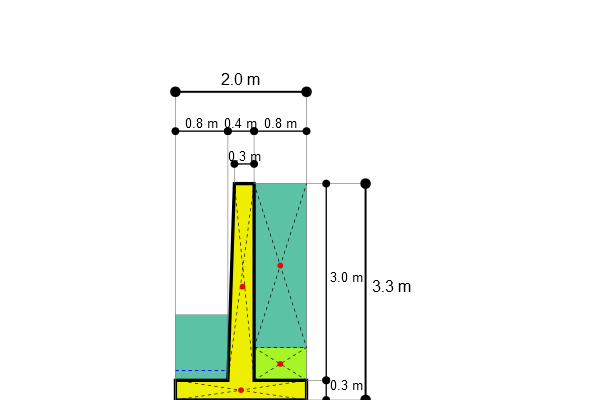
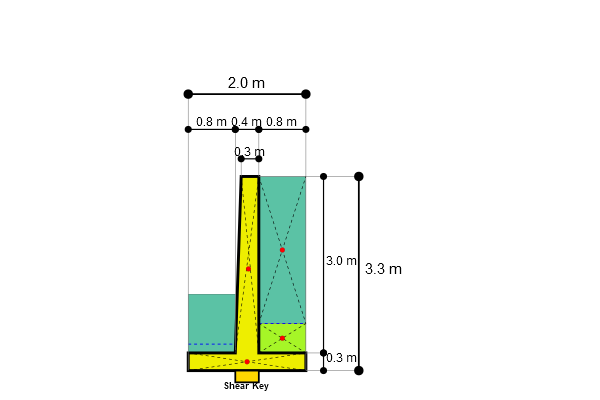
feat: Add optional shear key feature and fix analysis/plotting bugs

Changed region(s): [[0.27, 0.3, 0.69, 1.0], [0.27, 0.18, 0.54, 0.27]]

diff --git a/App.py b/App.py
@@ -155,6 +155,13 @@ with tab_geom:
     top_wall = st.number_input('Top wall thickness (m)', value=0.3, step=0.01, format="%.3f")
     bot_wall = st.number_input('Bottom wall thickness (m)', value=0.4, step=0.01, format="%.3f")
     h_ftg = st.number_input('Footing thickness (m)', value=0.3, step=0.01, format="%.3f")
+    # Shear key optional parameters
+    include_shear_key = st.checkbox('Include Shear Key', value=False)
+    if include_shear_key:
+        st.subheader('Shear Key Parameters')
+        shear_key_distance = st.number_input('Distance from toe edge (m)', value=0.1, step=0.01, format="%.3f")
+        shear_key_width = st.number_input('Shear key width (m)', value=0.5, step=0.01, format="%.3f")
+        shear_key_thickness = st.number_input('Shear key thickness (m)', value=0.2, step=0.01, format="%.3f")
 
 with tab_soil:
     # Soil parameters
@@ -391,6 +398,7 @@ for idx, x in enumerate(xs_unique):
 # back nodes follow the tapered profile, front nodes at x = toe+bot_wall
 # IDs 17..32 (back1,front1, back2,front2, ...)
 stem_pairs = []
+shear_node_ids = []  # will hold shear key node ids if enabled
 for i in range(1, 9):
     z = h_ftg + Hw * (i / 8.0)
     back_x = toe + taper * (i / 8.0)
@@ -462,8 +470,71 @@ for j in range(1, 9):
         elem_id += 1
     stem_elements_by_layer.append([e1, e2])
 
+# Shear key mesh (Tri31 3x3 grid) if enabled
+if include_shear_key:
+    # Shear key protrudes BELOW the footing base (y=0 downward)
+    # x range: from shear_key_distance to shear_key_distance + shear_key_width
+    base_node_id = num_foot_nodes * 2 + len(stem_pairs) * 2
+    shear_node_ids = []
+    shear_key_top_nids = []     # top row (y=0) for equalDOF connection
+    shear_key_bottom_nids = []  # bottom row (y=-shear_key_thickness) for springs
+    shear_key_left_nids = []    # left column for active pressure
+    shear_key_right_nids = []   # right column for passive pressure
+    nx_sk, ny_sk = 3, 3
+    x_start_sk = shear_key_distance
+    x_end_sk = shear_key_distance + shear_key_width
+    y_top_sk = 0.0              # footing base level
+    y_bottom_sk = -shear_key_thickness
+    sk_xs = []
+    for i_sk in range(nx_sk):
+        x = x_start_sk + (x_end_sk - x_start_sk) * i_sk / (nx_sk - 1)
+        sk_xs.append(x)
+        for j_sk in range(ny_sk):
+            y = y_bottom_sk + (y_top_sk - y_bottom_sk) * j_sk / (ny_sk - 1)
+            nid = base_node_id + len(shear_node_ids) + 1
+            ops.node(nid, float(x), float(y))
+            shear_node_ids.append(nid)
+            if j_sk == ny_sk - 1:  # top row
+                shear_key_top_nids.append(nid)
+            if j_sk == 0:  # bottom row
+                shear_key_bottom_nids.append(nid)
+            if i_sk == 0:  # left column (back face — active side)
+                shear_key_left_nids.append(nid)
+            if i_sk == nx_sk - 1:  # right column (front face — passive side)
+                shear_key_right_nids.append(nid)
+    sk_ys_unique = [y_bottom_sk + (y_top_sk - y_bottom_sk) * j_sk / (ny_sk - 1) for j_sk in range(ny_sk)]
+
+    # Create Tri31 elements for the shear key (2 triangles per quad)
+    shear_key_elem_ids = []
+    for i_sk in range(nx_sk - 1):
+        for j_sk in range(ny_sk - 1):
+            n1 = shear_node_ids[i_sk * ny_sk + j_sk]
+            n2 = shear_node_ids[(i_sk + 1) * ny_sk + j_sk]
+            n3 = shear_node_ids[i_sk * ny_sk + (j_sk + 1)]
+            n4 = shear_node_ids[(i_sk + 1) * ny_sk + (j_sk + 1)]
+            ops.element('Tri31', elem_id, n1, n4, n3, 1.0, 'PlaneStrain', 1)
+            shear_key_elem_ids.append(elem_id)
+            elem_id += 1
+            ops.element('Tri31', elem_id, n1, n2, n4, 1.0, 'PlaneStrain', 1)
+            shear_key_elem_ids.append(elem_id)
+            elem_id += 1
+
+    # Connect top row of shear key to nearest footing bottom nodes via equalDOF
+    for sk_top_nid in shear_key_top_nids:
+        sk_x = ops.nodeCoord(sk_top_nid, 1)
+        # Find closest bottom footing node
+        best_dist = float('inf')
+        best_nid = bottom_node_ids[0]
+        for bnid in bottom_node_ids:
+            bx = ops.nodeCoord(bnid, 1)
+            dist = abs(bx - sk_x)
+            if dist < best_dist:
+                best_dist = dist
+                best_nid = bnid
+        ops.equalDOF(best_nid, sk_top_nid, 1, 2)
+
 # total nodes and elements
-total_nodes = num_foot_nodes * 2 + len(stem_pairs) * 2
+total_nodes = num_foot_nodes * 2 + len(stem_pairs) * 2 + (len(shear_node_ids) if include_shear_key else 0)
 total_elements = elem_id - 1
 
 # heel_nodes kept for reference (top-of-footing sampling points)
@@ -755,6 +826,35 @@ ops.load(bottom_node_ids[0], float(F_passive_bot), 0.0)
 # Total passive force (integrated)
 P_passive = 0.5 * (sigma_p_top + sigma_p_bot) * h_ftg * t
 
+# Shear key active and passive earth pressure loads
+P_passive_shear_key = 0.0
+if include_shear_key:
+    # The shear key extends from y=0 to y=-shear_key_thickness below footing base
+    # Depth below ground surface at footing base = h_soil_toe + h_ftg
+    depth_at_ftg_base = h_soil_toe + h_ftg
+    # Left face (back side, closer to heel) receives ACTIVE pressure pushing left (negative x)
+    # Right face (front side, closer to toe) receives PASSIVE pressure pushing right (positive x)
+    sk_ny = len(shear_key_left_nids)
+    sk_h_trib = shear_key_thickness / max(1, sk_ny - 1)
+    for j_sk, (left_nid, right_nid) in enumerate(zip(shear_key_left_nids, shear_key_right_nids)):
+        y_nid = ops.nodeCoord(left_nid, 2)  # y coordinate (negative)
+        depth_below_surface = depth_at_ftg_base + abs(y_nid)
+        # Tributary height
+        if j_sk == 0 or j_sk == sk_ny - 1:
+            h_t = sk_h_trib / 2.0
+        else:
+            h_t = sk_h_trib
+        # Active pressure on left face (pushing left = negative x)
+        sigma_a = Ka * gamma_soil_dry * depth_below_surface
+        F_active = -sigma_a * h_t * t
+        ops.load(left_nid, float(F_active), 0.0)
+        # Passive pressure on right face (pushing right = positive x) with FS
+        sigma_p = (Kp * gamma_soil_dry * depth_below_surface) / FS_passive
+        F_passive_sk = sigma_p * h_t * t
+        ops.load(right_nid, float(F_passive_sk), 0.0)
+        P_passive_shear_key += F_passive_sk
+    P_passive += P_passive_shear_key
+
 # Support information - Winkler Soil Spring Model
 # Compute subgrade reaction modulus using Vesic's formula: ks = Es / (B * (1 - nu^2))
 ks_subgrade = Es_soil / (ftg * (1.0 - nu_soil**2))
@@ -788,9 +888,30 @@ for idx, nid in enumerate(bottom_node_ids):
 leftmost_bottom = bottom_node_ids[0]
 ops.fix(leftmost_bottom, 1, 0)
 
+# Shear key bottom node springs (anchor + vertical spring)
+if include_shear_key:
+    sk_spring_mat_base = 300  # material tag offset for shear key springs
+    sk_spring_elem_base = 2000  # element tag offset for shear key springs
+    sk_anchor_base = 400  # node tag offset for shear key anchor nodes
+    for idx_sk, sk_nid in enumerate(shear_key_bottom_nids):
+        anchor_sk_nid = sk_anchor_base + idx_sk
+        x_c = ops.nodeCoord(sk_nid, 1)
+        y_c = ops.nodeCoord(sk_nid, 2)
+        ops.node(anchor_sk_nid, float(x_c), float(y_c))
+        ops.fix(anchor_sk_nid, 1, 1)
+        # Tributary width for spring
+        L_trib_sk = shear_key_width / max(1, len(shear_key_bottom_nids) - 1)
+        if idx_sk == 0 or idx_sk == len(shear_key_bottom_nids) - 1:
+            L_trib_sk = L_trib_sk / 2.0
+        k_spring_sk = ks_subgrade * L_trib_sk * t
+        mat_sk = sk_spring_mat_base + idx_sk
+        ops.uniaxialMaterial('Elastic', mat_sk, float(k_spring_sk))
+        elem_sk = sk_spring_elem_base + idx_sk
+        ops.element('zeroLength', elem_sk, anchor_sk_nid, sk_nid, '-mat', mat_sk, '-dir', 2)
+
 ops.system('BandSPD')
 ops.numberer('RCM')
-ops.constraints('Plain')
+ops.constraints('Transformation')
 ops.integrator('LoadControl', 1.0)
 
 # Analysis type
@@ -923,6 +1044,12 @@ W_stem_tri = gamma_c * stem_tri_area * t
 cg_x_stem_tri = toe + (2.0 / 3.0) * taper if taper > 0 else float(toe)
 
 W_conc = W_base + W_stem_rect + W_stem_tri
+# Add shear key weight if enabled
+W_shear_key = 0.0
+if include_shear_key:
+    shear_key_area = shear_key_width * shear_key_thickness
+    W_shear_key = gamma_c * shear_key_area * t
+    W_conc += W_shear_key
 wall_area = stem_rect_area + stem_tri_area
 footing_area = base_area
 
@@ -983,13 +1110,13 @@ except Exception:
 
 try:
     phi_rad = np.radians(phi)
-    # R_slide is the base friction resistance (W * tan(phi))
-    R_slide = max(0.0, W_down_global) * np.tan(phi_rad)
+    # R_slide is the base friction resistance (W * tan(phi)) + shear key passive resistance
+    R_slide = max(0.0, W_down_global) * np.tan(phi_rad) + P_passive_shear_key
     # F_drive is the net driving lateral force (Active + Surcharge + Hydrostatic - Passive)
     # Since passive resistance is applied in OpenSees as a positive horizontal load,
     # total_lateral_resultant (-sum(Fx)) naturally subtracts it.
     F_drive = max(0.0, total_lateral_resultant)
-    FS_slide_global = R_slide / F_drive if F_drive > 0 else float('inf')
+    FS_slide_global = (R_slide + P_passive) / F_drive if F_drive > 0 else float('inf')
 except Exception:
     R_slide = 0.0
     FS_slide_global = None
@@ -1257,17 +1384,19 @@ try:
         anchor=(stem_cover, stem_beam_height - stem_cover),
     )
     
-    # Side bars
-    geom_stem = add_bar_rectangular_array(
-        geometry=geom_stem,
-        area=stem_sidebar_area,
-        material=material_steel,
-        n_x=2,
-        x_s=stem_beam_width - 2 * stem_cover,
-        n_y=3,
-        y_s=stem_spacing_y,
-        anchor=(stem_cover, stem_cover + 150),
-    )
+    # Side bars (evenly spaced between top and bottom main bars, avoiding out-of-bounds/overlap)
+    n_y_stem = int((stem_beam_height - 2 * stem_cover - 1e-3) / stem_spacing_y)
+    if n_y_stem > 0:
+        geom_stem = add_bar_rectangular_array(
+            geometry=geom_stem,
+            area=stem_sidebar_area,
+            material=material_steel,
+            n_x=2,
+            x_s=stem_beam_width - 2 * stem_cover,
+            n_y=n_y_stem,
+            y_s=stem_spacing_y,
+            anchor=(stem_cover, stem_cover + stem_spacing_y),
+        )
     
     conc_sec_stem = ConcreteSection(geom_stem)
     stem_capacity_sag = conc_sec_stem.ultimate_bending_capacity(theta=0)
@@ -1317,17 +1446,19 @@ try:
         anchor=(ftg_cover, ftg_beam_height - ftg_cover),
     )
     
-    # Side bars
-    geom_ftg = add_bar_rectangular_array(
-        geometry=geom_ftg,
-        area=ftg_sidebar_area,
-        material=material_steel,
-        n_x=2,
-        x_s=ftg_beam_width - 2 * ftg_cover,
-        n_y=n_y_bars_ftg,
-        y_s=ftg_spacing_y,
-        anchor=(ftg_cover, ftg_cover),
-    )
+    # Side bars (evenly spaced between top and bottom main bars, avoiding out-of-bounds/overlap)
+    n_y_ftg = int((ftg_beam_height - 2 * ftg_cover - 1e-3) / ftg_spacing_y)
+    if n_y_ftg > 0:
+        geom_ftg = add_bar_rectangular_array(
+            geometry=geom_ftg,
+            area=ftg_sidebar_area,
+            material=material_steel,
+            n_x=2,
+            x_s=ftg_beam_width - 2 * ftg_cover,
+            n_y=n_y_ftg,
+            y_s=ftg_spacing_y,
+            anchor=(ftg_cover, ftg_cover + ftg_spacing_y),
+        )
     
     conc_sec_ftg = ConcreteSection(geom_ftg)
     ftg_capacity_sag = conc_sec_ftg.ultimate_bending_capacity(theta=0)
@@ -1648,8 +1779,19 @@ if enable_pile:
         d_piles = ftg - 2.0 * pile_offset
         P_toe = Rv_force * (ftg - pile_offset - x_R_loc) / d_piles
         P_heel = Rv_force * (x_R_loc - pile_offset) / d_piles
-        H_toe = H_force / 2.0
-        H_heel = H_force / 2.0
+        
+        # Lateral load on piles: use total active driving lateral force + seismic inertia force (neglecting passive resistance for conservative structural design of piles)
+        total_active_driving = -sum(Fx.values())
+        if kh > 0.0:
+            W_conc_seismic = gamma_c * ((top_wall + bot_wall) / 2.0 * Hw + ftg * h_ftg) * t
+            W_soil_seismic = (gamma_soil_dry * max(0.0, h_soil - Hwtr) + gamma_soil_wet * (Hwtr + h_ftg)) * ftg * t
+            seismic_force = kh * (W_soil_seismic + W_conc_seismic)
+        else:
+            seismic_force = 0.0
+        H_total_piles = max(0.1, total_active_driving + seismic_force)
+        
+        H_toe = H_total_piles / 2.0
+        H_heel = H_total_piles / 2.0
 
         # 3. Single pile capacities (using groundhog)
         gamma_sub = gamma_pile_soil - gamma_w if (Hwtr_front > 0 or Hwtr > 0) else gamma_pile_soil
@@ -2015,7 +2157,13 @@ with col_left:
             mult = 1000
             # Dynamically compute drawing height to prevent clipping when soil or water is high
             max_height = max(Hw, h_soil, h_soil_toe, Hwtr, Hwtr_front) + h_ftg
+            if include_shear_key:
+                max_height += shear_key_thickness
             d = draw.Drawing((ftg + 1.8)*mult, (max_height + 2.8)*mult, origin='bottom-left')
+            if include_shear_key:
+                min_y = -(max_height + 2.8) * mult
+                max_y = (shear_key_thickness + 0.3) * mult
+                d.view_box = (0, min_y, (ftg + 1.8)*mult, max_y - min_y)
             
             # Draw soil - Dry soil (above water table)
             if h_soil > Hwtr:
@@ -2082,6 +2230,25 @@ with col_left:
                             fill='#eeee00',
                             stroke='black',
                             stroke_width=50))
+
+            # Draw Shear Key (below footing base)
+            if include_shear_key:
+                sk_x1 = shear_key_distance * mult
+                sk_x2 = (shear_key_distance + shear_key_width) * mult
+                sk_y1 = 0.0   # footing base level
+                sk_y2 = shear_key_thickness * mult  # extends downward (positive in drawing coords)
+                d.append(draw.Lines(sk_x1, sk_y1,
+                                    sk_x2, sk_y1,
+                                    sk_x2, sk_y2,
+                                    sk_x1, sk_y2,
+                                    close=True,
+                                    fill='#FFD700',
+                                    stroke='black',
+                                    stroke_width=30))
+                # Label
+                d.append(draw.Text('Shear Key', 0.15*mult,
+                                   (sk_x1 + sk_x2) / 2, sk_y2 + 0.12*mult,
+                                   fill='black', text_anchor='middle', font_weight='bold'))
 
             # Vertical dimensions
             x_dim_v1 = (ftg + 0.3) * mult
@@ -2525,6 +2692,21 @@ with col_left:
                                 fill='#eeee00',
                                 stroke='black',
                                 stroke_width=30))
+
+            # Draw Shear Key in d_load if enabled
+            if include_shear_key:
+                sk_x1 = shear_key_distance * mult + x_shift
+                sk_x2 = (shear_key_distance + shear_key_width) * mult + x_shift
+                sk_y1 = -y_shift
+                sk_y2 = -y_shift + shear_key_thickness * mult
+                d_load.append(draw.Lines(sk_x1, sk_y1,
+                                    sk_x2, sk_y1,
+                                    sk_x2, sk_y2,
+                                    sk_x1, sk_y2,
+                                    close=True,
+                                    fill='#FFD700',
+                                    stroke='black',
+                                    stroke_width=20))
 
             # 3. Dynamic loads
             if selected_load_plot in ['soil lateral', 'total']:
@@ -3006,6 +3188,15 @@ with col_right:
         except Exception:
             pass
 
+    # Remove shear key spring elements and anchor nodes for clean opsvis plotting
+    if include_shear_key:
+        for idx_sk in range(len(shear_key_bottom_nids)):
+            try:
+                ops.remove('element', sk_spring_elem_base + idx_sk)
+                ops.remove('node', sk_anchor_base + idx_sk)
+            except Exception:
+                pass
+
     # Card C: Stem Bending Moment Diagram
     with st.container(border=True):
         st.subheader("📉 Stem Bending Moment Diagram")
@@ -3013,12 +3204,14 @@ with col_right:
         
         try:
             node_moments_dict = get_stem_moments()
-            nds_val_moment = np.zeros(total_nodes)
-            for i in range(1, total_nodes + 1):
-                if i in node_moments_dict:
-                    nds_val_moment[i-1] = node_moments_dict[i]
+            # Use actual node tags from current model state (after anchor removal)
+            active_node_tags = ops.getNodeTags()
+            nds_val_moment = np.zeros(len(active_node_tags))
+            for idx_nd, ntag in enumerate(active_node_tags):
+                if ntag in node_moments_dict:
+                    nds_val_moment[idx_nd] = node_moments_dict[ntag]
                 else:
-                    nds_val_moment[i-1] = 0.0
+                    nds_val_moment[idx_nd] = 0.0
             
             plt.close('all')
             opsv.plot_stress_2d(nds_val_moment)
